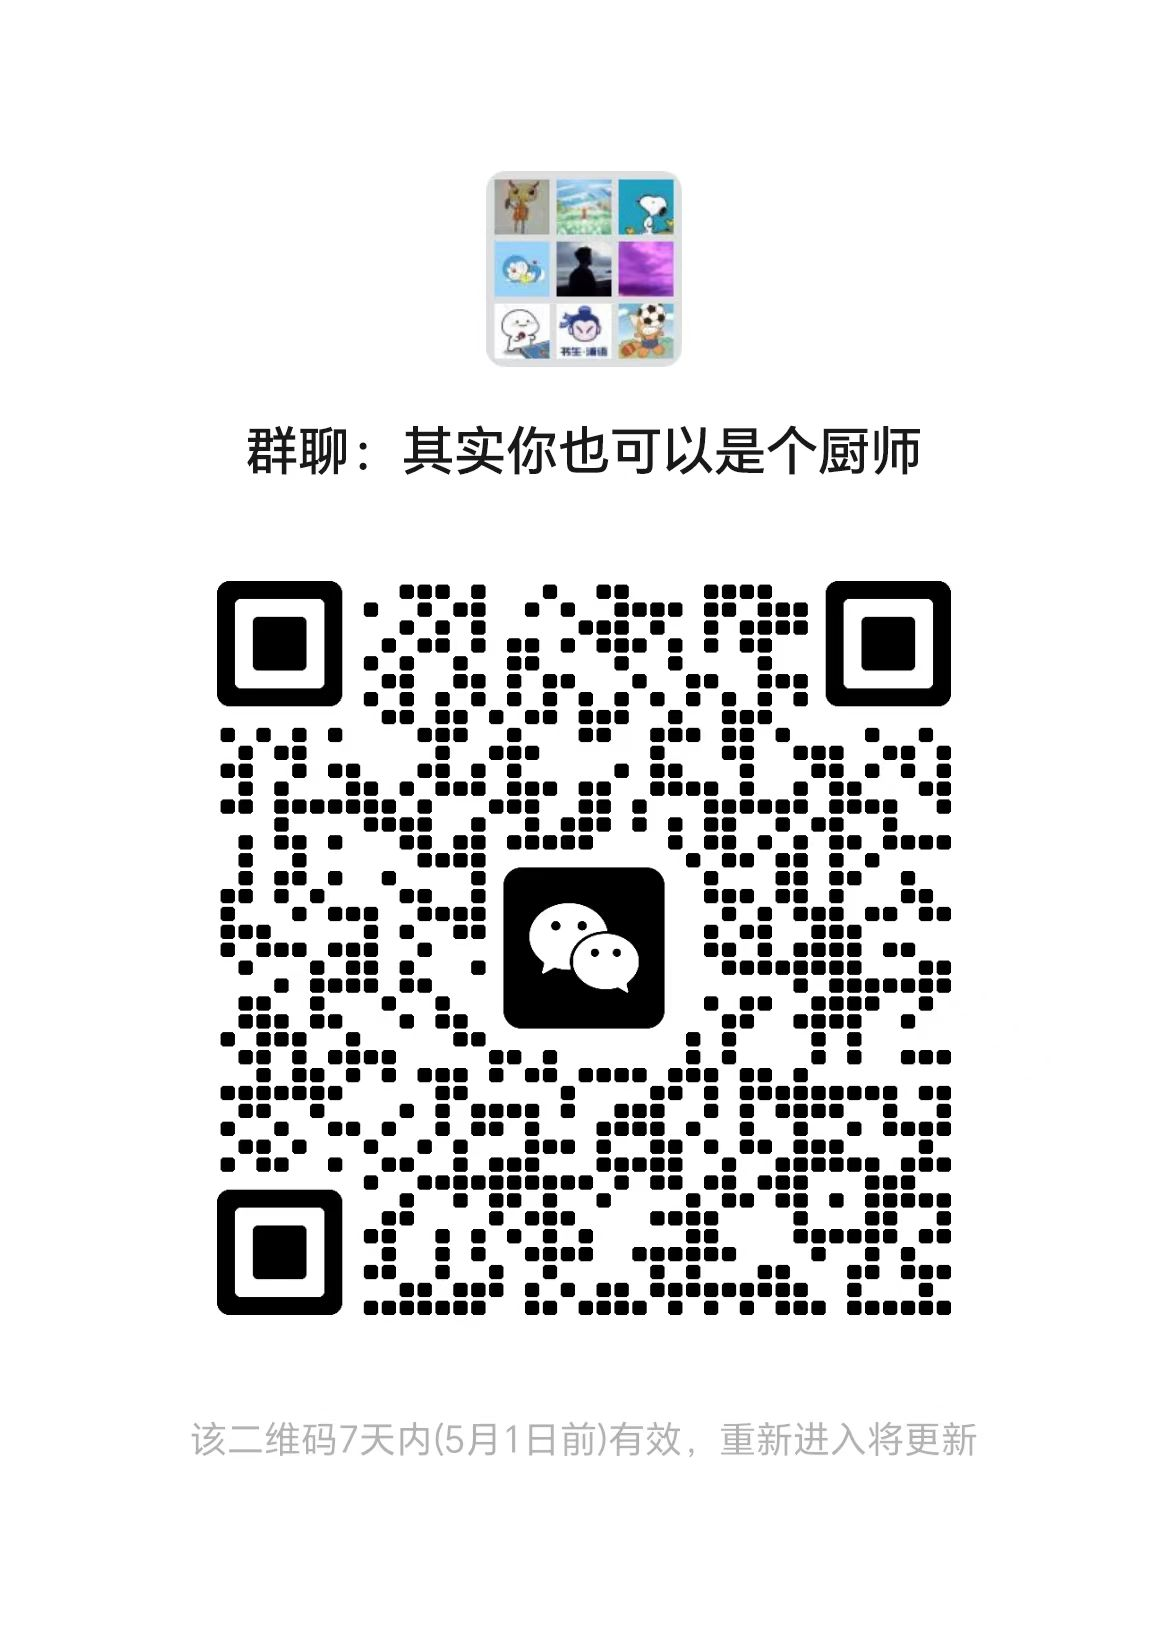
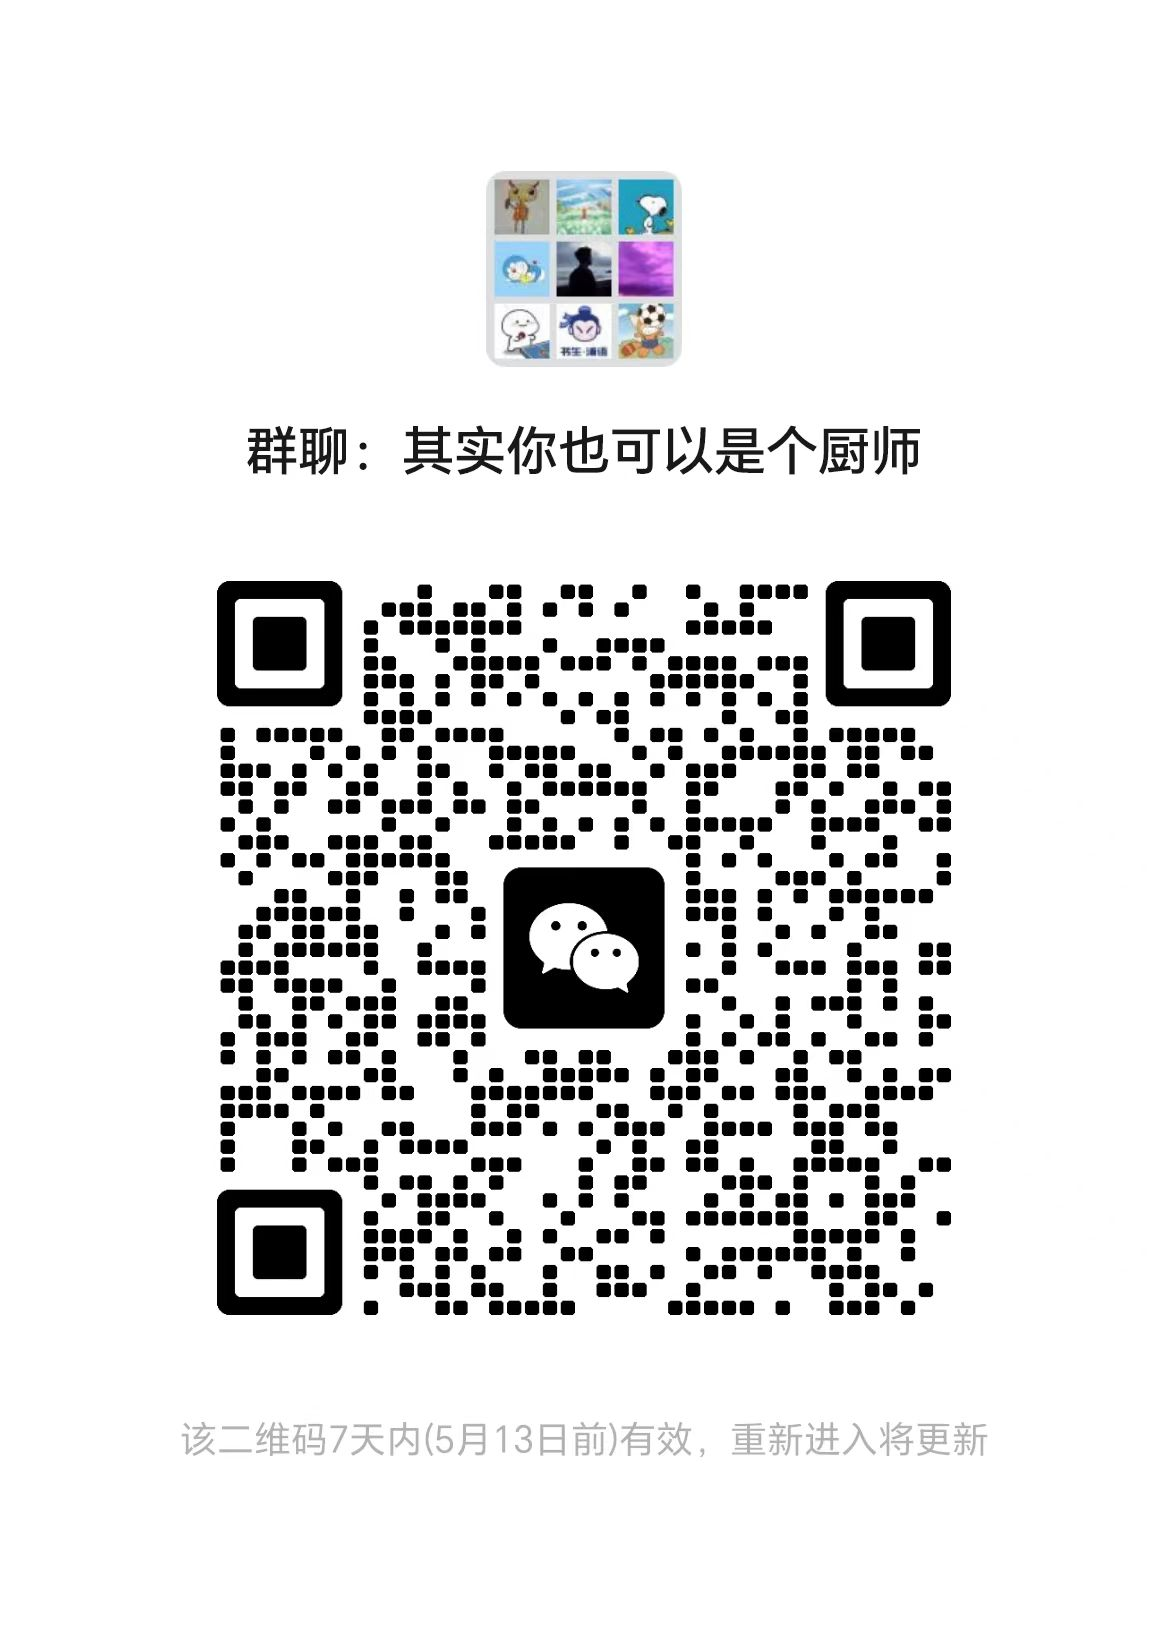
Update QR code of WeChat Group

diff --git a/rag_langchain/README.md b/rag_langchain/README.md
@@ -107,7 +107,6 @@ Config['rag_langchain'] = {
         'use_fp16': True # 模型参数精度是否使用fp16
     }
 }
-
 ```
 
 2. 运行建库脚本
@@ -249,10 +248,14 @@ def load_retriever():
 
 - BM25
   
-  - [简介]((https://en.wikipedia.org/wiki/Okapi_BM25)
+  - [简介](https://en.wikipedia.org/wiki/Okapi_BM25)
 
 - FAISS
   
   - [Github 仓库](https://github.com/facebookresearch/faiss)
   
   - [文档](https://faiss.ai/)
+
+- HyDE技术
+  
+  - [论文](https://arxiv.org/pdf/2212.10496)
